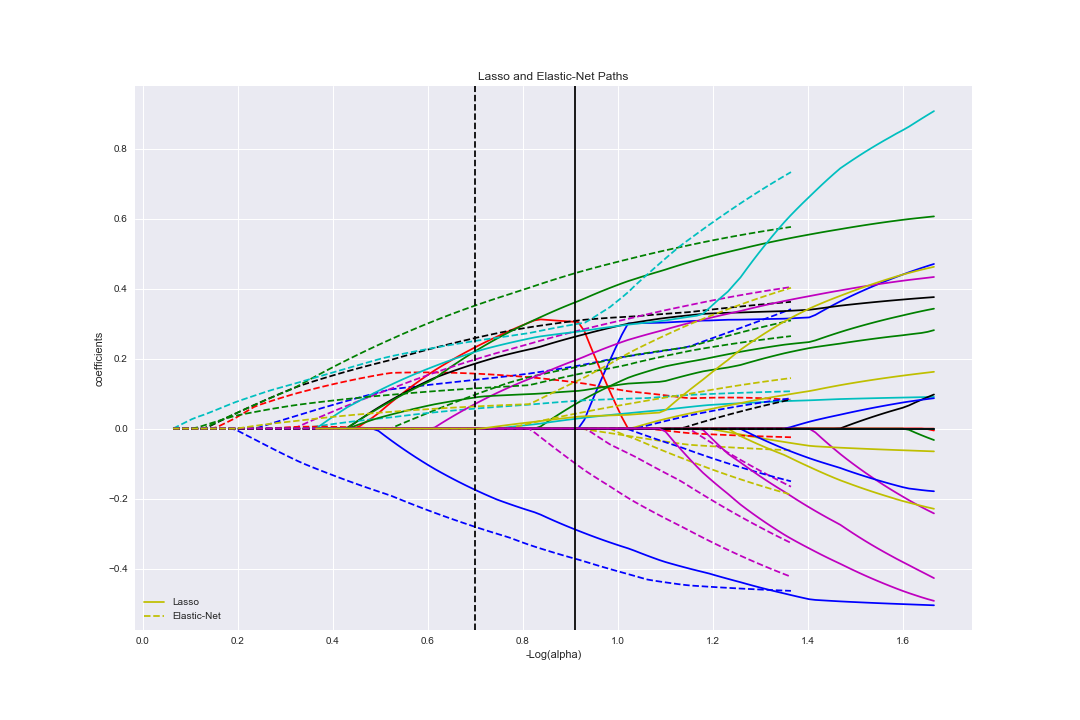
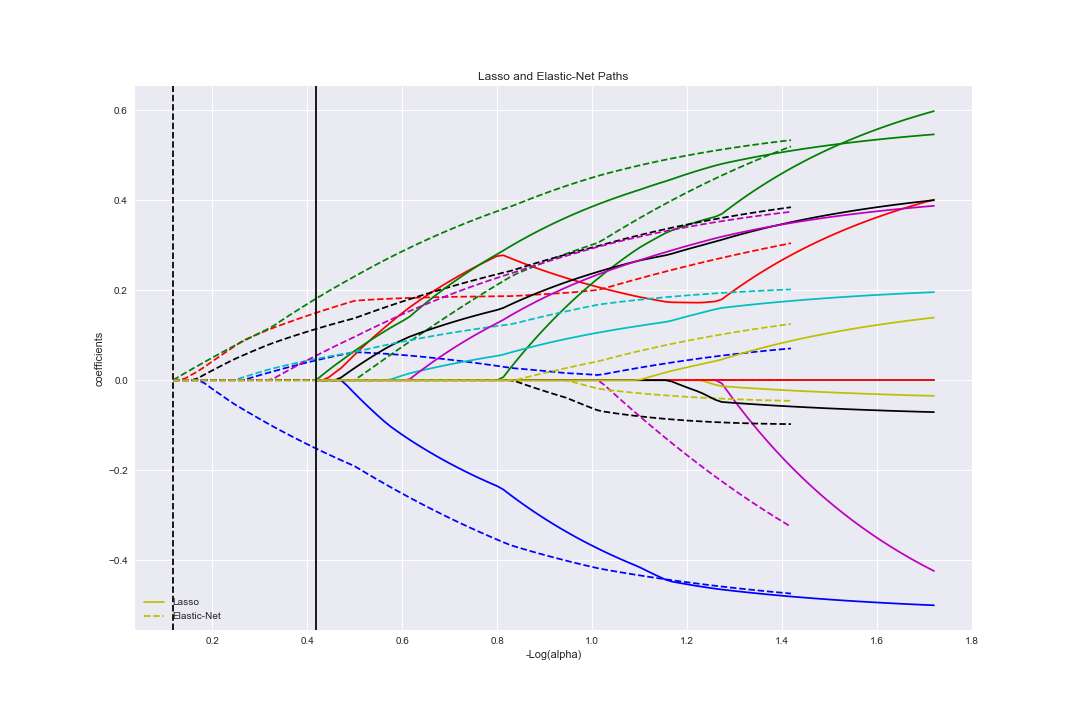
Added Global Control of Variables

diff --git a/run.py b/run.py
@@ -33,6 +33,13 @@ os.chdir(dir)
 os.makedirs(dir + '/temp', exist_ok = True)
 os.makedirs(dir + '/out/temp', exist_ok = True)
 os.makedirs(dir + '/in', exist_ok = True)
+
+# Cross-validation Parameter
+K = 5
+#  Share of Sample as Test
+test_size= 1/30
+# Add interactions or not
+Poly = 1
 #%%
 
 df = pd.read_csv('in/rapach_2013.csv', na_values = ['NaN'])
@@ -40,7 +47,7 @@ df.rename( index=str, columns={"date": "ym"}, inplace=True)
 df['date'] = pd.to_datetime(df['ym'],format='%Y%m') + MonthEnd(1)
 df['sp500_rf'] = df['sp500_rf'] * 100
 df['lnsp500_rf'] = df['lnsp500_rf'] * 100
-
+df.sort_values(by=['ym'])
 
 #%%
 """Lagging predictive  variables"""
@@ -59,14 +66,14 @@ df[vars] = df[vars].shift(1)
 
 df_full = df
 df = df[(df['date'].dt.year >= 1951)]
-
+# df[pd.isnull(df["ewsi"])!= 1]['date'].describe()
 #%%
 """Provide a Description of the Data"""
 df.describe().T.to_csv("out/temp/descriptive.csv")
 """
 --> Data is the same is in the paper Rapach et al 2013
 """
-
+df.describe().T
 
 #%%
 """
@@ -77,16 +84,27 @@ macro = [ 'dp', 'dy', 'ep', 'de', 'rvol', 'bm', 'ntis', 'tbl', 'lty', 'ltr', 'tm
 tech = ['ma_1_9', 'ma_1_12', 'ma_2_9', 'ma_2_12', 'ma_3_9', 'ma_3_12', 'mom_9', \
        'mom_12', 'vol_1_9', 'vol_1_12', 'vol_2_9', 'vol_2_12', 'vol_3_9', \
        'vol_3_12']
-predictors = macro + tech
+predictors = macro+ tech 
+#%%
+# Add interaction variables
+#%%
+''' Train and Test Samples'''
+from sklearn.model_selection import train_test_split
+Xo= df[predictors]
+yo = df['lnsp500_rf']
+
+
+X, X_test, y, y_test = train_test_split(Xo, yo, test_size=test_size, shuffle = False )
+
+
 #%%
 '''Standardize Data'''
-X= df[predictors]
-y = df['lnsp500_rf']
-
 from sklearn.preprocessing import StandardScaler,MinMaxScaler
-scaler = StandardScaler()
-Xo = X
-X[X.columns]= scaler.fit_transform(X[X.columns])
+scaler = StandardScaler().fit(X)
+X = pd.DataFrame(scaler.transform(X),  index=X.index, columns=X.columns )
+X_test = pd.DataFrame(scaler.transform(X_test),  index=X_test.index, columns=X_test.columns )
+
+
 # #############################################################################
 #%% 
 ''' OLS model'''
@@ -97,6 +115,7 @@ model_ols = reg.fit(X,y)
 from sklearn import linear_model
 reg = linear_model.LinearRegression(fit_intercept = False)
 Ones = pd.DataFrame(np.ones(y.shape[0]))
+Ones_test = pd.DataFrame(np.ones(y_test.shape[0]))
 model_c = reg.fit(Ones,y)
 #%%
 ''' PCA'''
@@ -108,8 +127,10 @@ plt.ylabel('cumulative explained variance');
 
 reg = linear_model.LinearRegression()
 pca = PCA(n_components=4)
-X_pca = pca.fit_transform(X)
+pca.fit(X)
+X_pca = pca.transform(X)
 model_pca = reg.fit(X_pca,y)
+X_test_pca = pca.transform(X_test)
 #%%
 
 ''' Lasso model selection: Cross-Validation'''
@@ -122,7 +143,7 @@ from sklearn.linear_model import  RidgeCV, LassoCV, LassoLarsCV, LassoLarsIC, El
 
 print("Computing regularization path using the coordinate descent lasso...")
 t1 = time.time()
-model = LassoCV(cv=10).fit(X, y)
+model = LassoCV(cv=K).fit(X, y)
 #print(model.alphas_)
 model_lasso = model
 t_lasso_cv = time.time() - t1
@@ -155,7 +176,7 @@ print(alpha_lasso)
 print("Computing regularization path using the coordinate descent ridge...")
 t1 = time.time()
 ridge_alphas = np.logspace(-4, 2, 50)
-model = ElasticNetCV(alphas = ridge_alphas, l1_ratio = 0, cv=10).fit(X, y)
+model = ElasticNetCV(alphas = ridge_alphas, l1_ratio = 0, cv=K).fit(X, y)
 
 model_ridge = model
 t_ridge_cv = time.time() - t1
@@ -190,7 +211,7 @@ print(alpha_ridge)
 
 print("Computing regularization path using the coordinate descent lasso...")
 t1 = time.time()
-model = ElasticNetCV(cv=10).fit(X, y)
+model = ElasticNetCV(cv=K).fit(X, y)
 
 model_enet = model
 t_enet_cv = time.time() - t1
@@ -409,7 +430,7 @@ def r2_adj_score(y, yhat, n, p):
 
 yhat_c = model_c.predict(Ones)
 yhat_ols = model_ols.predict(X)
-yhat_pca = model_ols.predict(X)
+yhat_pca = model_pca.predict(X_pca)
 yhat_ridge = model_ridge.predict(X)
 yhat_lasso = model_lasso.predict(X)
 yhat_enet = model_enet.predict(X)
@@ -418,6 +439,48 @@ yhat_enet = model_enet.predict(X)
 print("R2:")
 print(r2_score(y, yhat_c))
 print(r2_score(y, yhat_ols))
+print(r2_score(y, yhat_pca))
+print(r2_score(y, yhat_ridge))
+print(r2_score(y, yhat_lasso))
+print(r2_score(y, yhat_enet))
+print("R2_adj:")
+print(r2_adj_score(y, yhat_c,n = y.shape[0],  p = Ones.shape[1]))
+print(r2_adj_score(y, yhat_ols,n = y.shape[0],  p = X.shape[1]))
+print(r2_adj_score(y, yhat_pca,n = y.shape[0],  p = X_pca.shape[1]))
+print(r2_adj_score(y, yhat_ridge,n = y.shape[0],  p = X.shape[1]))
+print(r2_adj_score(y, yhat_lasso,n = y.shape[0],  p = X.shape[1]))
+print(r2_adj_score(y, yhat_enet,n = y.shape[0],  p = X.shape[1]))
+print("MSE:")
+print(mean_squared_error(y, yhat_c))
+print(mean_squared_error(y, yhat_ols))
+print(mean_squared_error(y, yhat_pca))
+print(mean_squared_error(y, yhat_ridge))
+print(mean_squared_error(y, yhat_lasso))
+print(mean_squared_error(y, yhat_enet))
+
+'''
+--> OLS performs the best in-sample
+'''
+ #%%
+''' Performance Metrics - In-Sample Comparison'''
+print("''' Performance Metrics - In-Sample Comparison'''")
+from sklearn.metrics import mean_squared_error, r2_score
+def r2_adj_score(y, yhat, n, p):
+    r2 =  r2_score(y, yhat)
+    return 1 - (1-r2)*(n-1)/(n-p-1)
+
+yhat_c = model_c.predict(Ones)
+yhat_ols = model_ols.predict(X)
+yhat_pca = model_pca.predict(X_pca)
+yhat_ridge = model_ridge.predict(X)
+yhat_lasso = model_lasso.predict(X)
+yhat_enet = model_enet.predict(X)
+
+
+print("R2:")
+print(r2_score(y, yhat_c))
+print(r2_score(y, yhat_ols))
+print(r2_score(y, yhat_pca))
 print(r2_score(y, yhat_lasso))
 print(r2_score(y, yhat_enet))
 print("R2_adj:")
@@ -434,15 +497,16 @@ print(mean_squared_error(y, yhat_enet))
 --> OLS performs the best in-sample
 '''
 
+
         
 #%%
-''' Performance Metrics - Out-of-Sample Comparison - CV = 10'''
-print("Performance Metrics - Out-of-Sample Comparison - CV = 10")
+''' Performance Metrics - Cross-Validated Comparison - CV = 10'''
+print("Performance Metrics - Cross-Validated  Comparison - CV = {}".format(K))
 from sklearn import linear_model
 from sklearn.model_selection import cross_val_score, cross_val_predict
 from sklearn import metrics
 
-K = 10
+#K = 10
 def test_model(model, model_name, K):
     #model = ols_model
     #model_name = 'OLS'
@@ -481,10 +545,12 @@ test_model(enet_model,"Enet", K)
 '''
 --> ENET and LASSO  perform better our-of-sample but R2 negative
 '''
+#%%
 
 #%%
 #%%
-''' Potential Alternative Approach '''
+'''Potential Alternative Approach '''
+
 print("Potential Alternative Approach")
 from sklearn.model_selection import cross_validate
 ### Define Scorer
@@ -512,14 +578,49 @@ for k in range(len(models)):
 
  #%%
 # Multicollinearity
- 
-corr=np.corrcoef(X,rowvar=0)
-corr
-W,V=np.linalg.eig(corr)
-W
+# 
+#corr=np.corrcoef(X,rowvar=0)
+#corr
+#W,V=np.linalg.eig(corr)
+#W
+#
+#list(X)
+#Xcorr = X.corr()
+#sns.heatmap(Xcorr, annot=True)
+#
+##--> Multicollinearity in data
 
-list(X)
-Xcorr = X.corr()
-sns.heatmap(Xcorr, annot=True)
+ #%%
+''' Performance Metrics - Out_of-Sample Comparison'''
+print("''' Performance Metrics - Out_of-Sample Comparison'''")
+from sklearn.metrics import mean_squared_error, r2_score
+def r2_adj_score(y, yhat, n, p):
+    r2 =  r2_score(y, yhat)
+    return 1 - (1-r2)*(n-1)/(n-p-1)
 
-#--> Multicollinearity in data
+yhat_c = model_c.predict(Ones_test)
+yhat_ols = model_ols.predict(X_test)
+yhat_pca = model_pca.predict(X_test_pca)
+yhat_ridge = model_ridge.predict(X_test)
+yhat_lasso = model_lasso.predict(X_test)
+yhat_enet = model_enet.predict(X_test)
+
+
+
+print("MSE:")
+print("mean_squared_error(y_test, yhat_c)")
+print(mean_squared_error(y_test, yhat_c))
+print("mean_squared_error(y_test, yhat_ols)")
+print(mean_squared_error(y_test, yhat_ols))
+print("mean_squared_error(y_test, yhat_pca)")
+print(mean_squared_error(y_test, yhat_pca))
+print("mean_squared_error(y_test, yhat_ridge)")
+print(mean_squared_error(y_test, yhat_ridge))
+print("mean_squared_error(y_test, yhat_lasso)")
+print(mean_squared_error(y_test, yhat_lasso))
+print("mean_squared_error(y_test, yhat_enet)")
+print(mean_squared_error(y_test, yhat_enet))
+
+'''
+--> OLS performs the best in-sample
+'''
